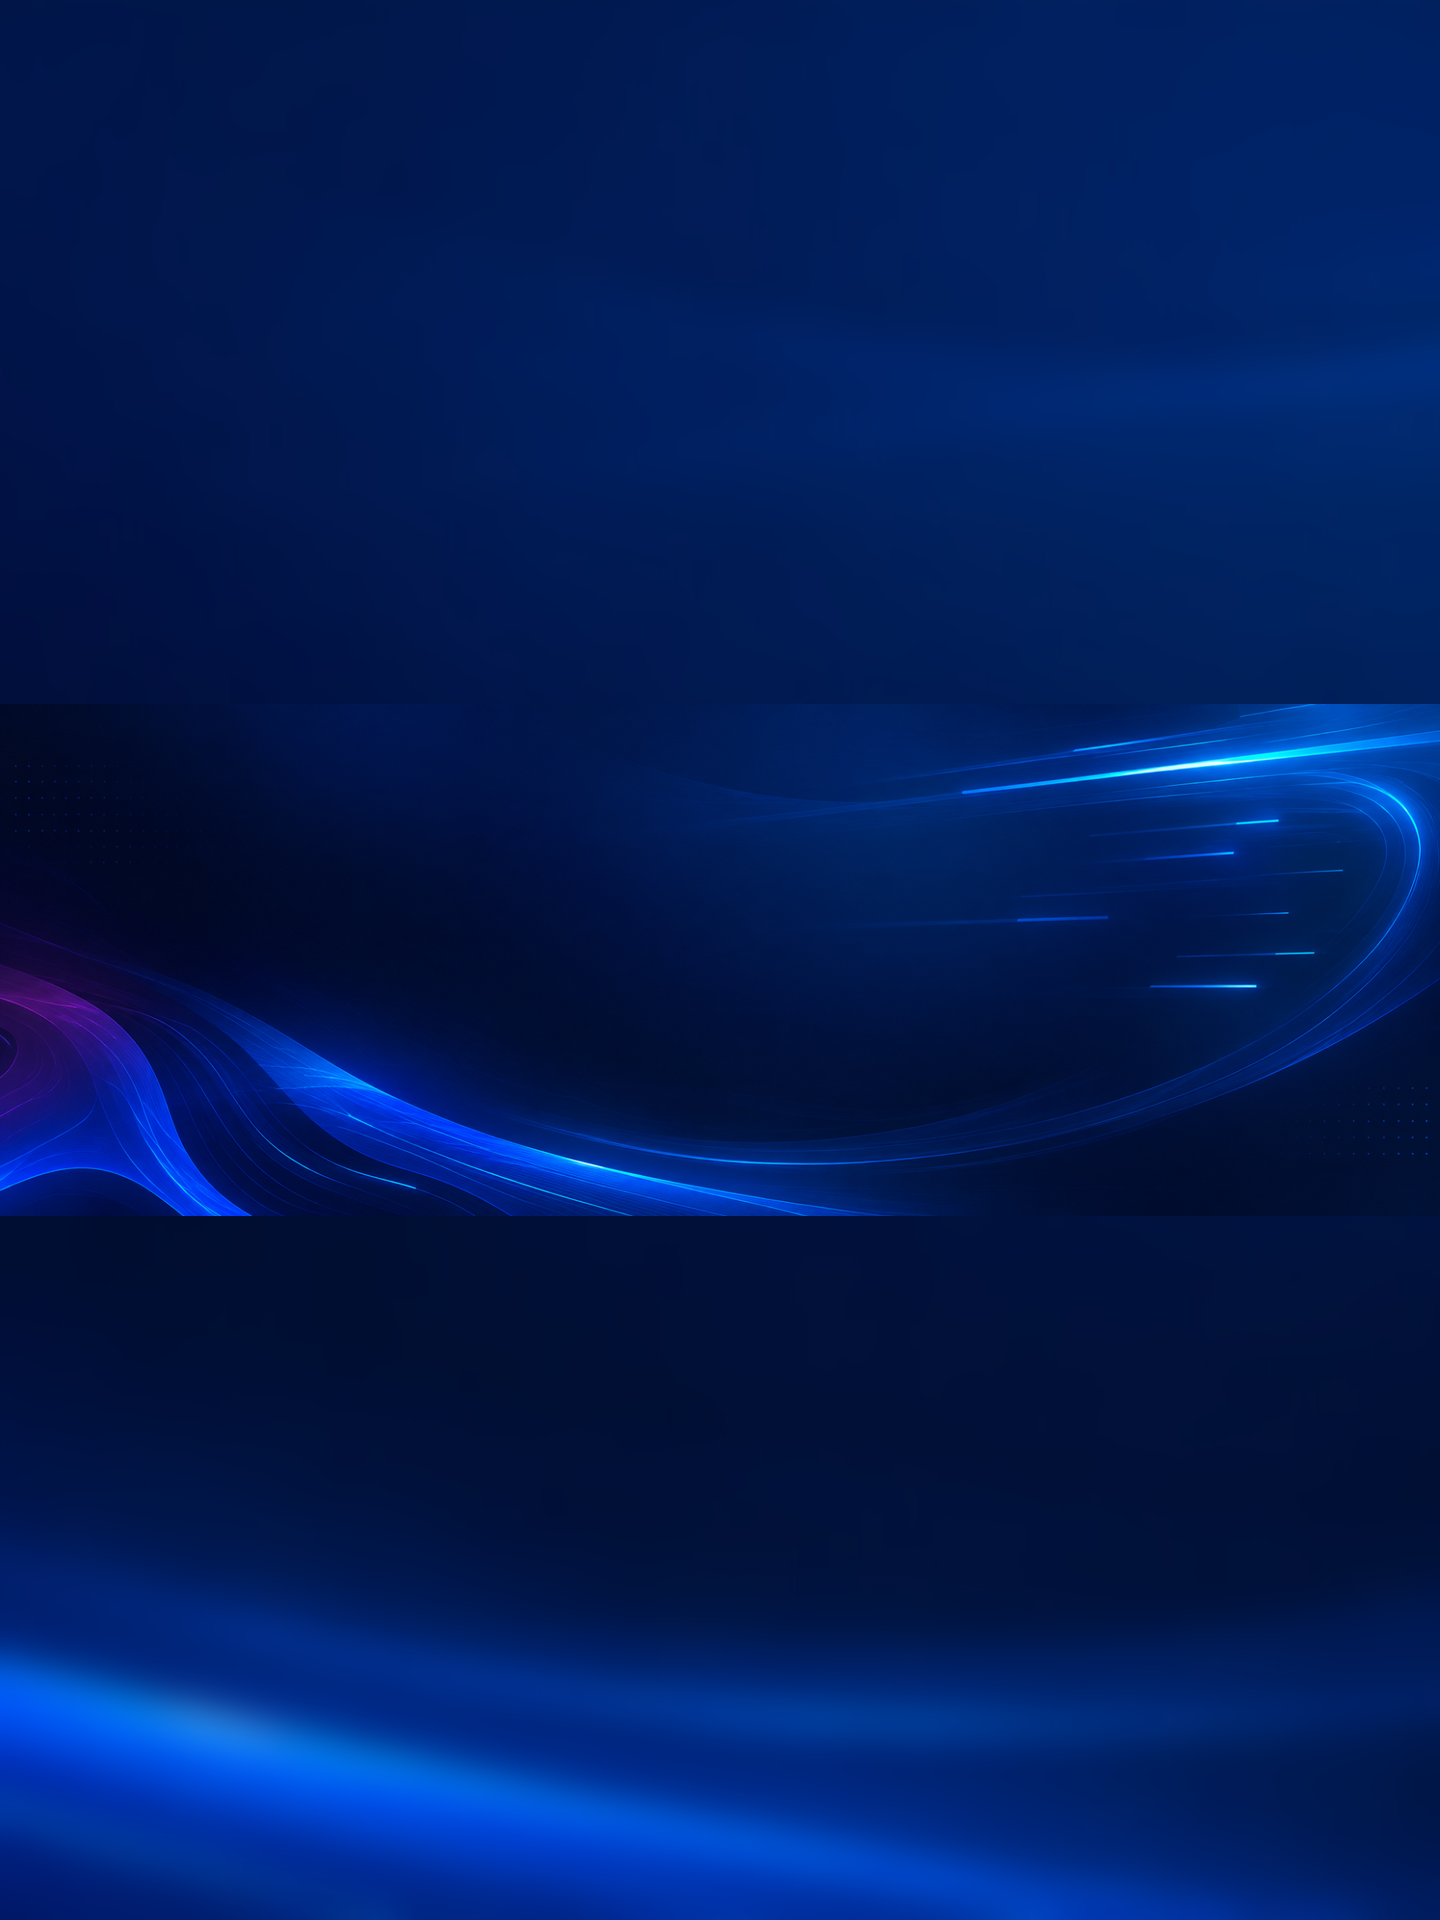
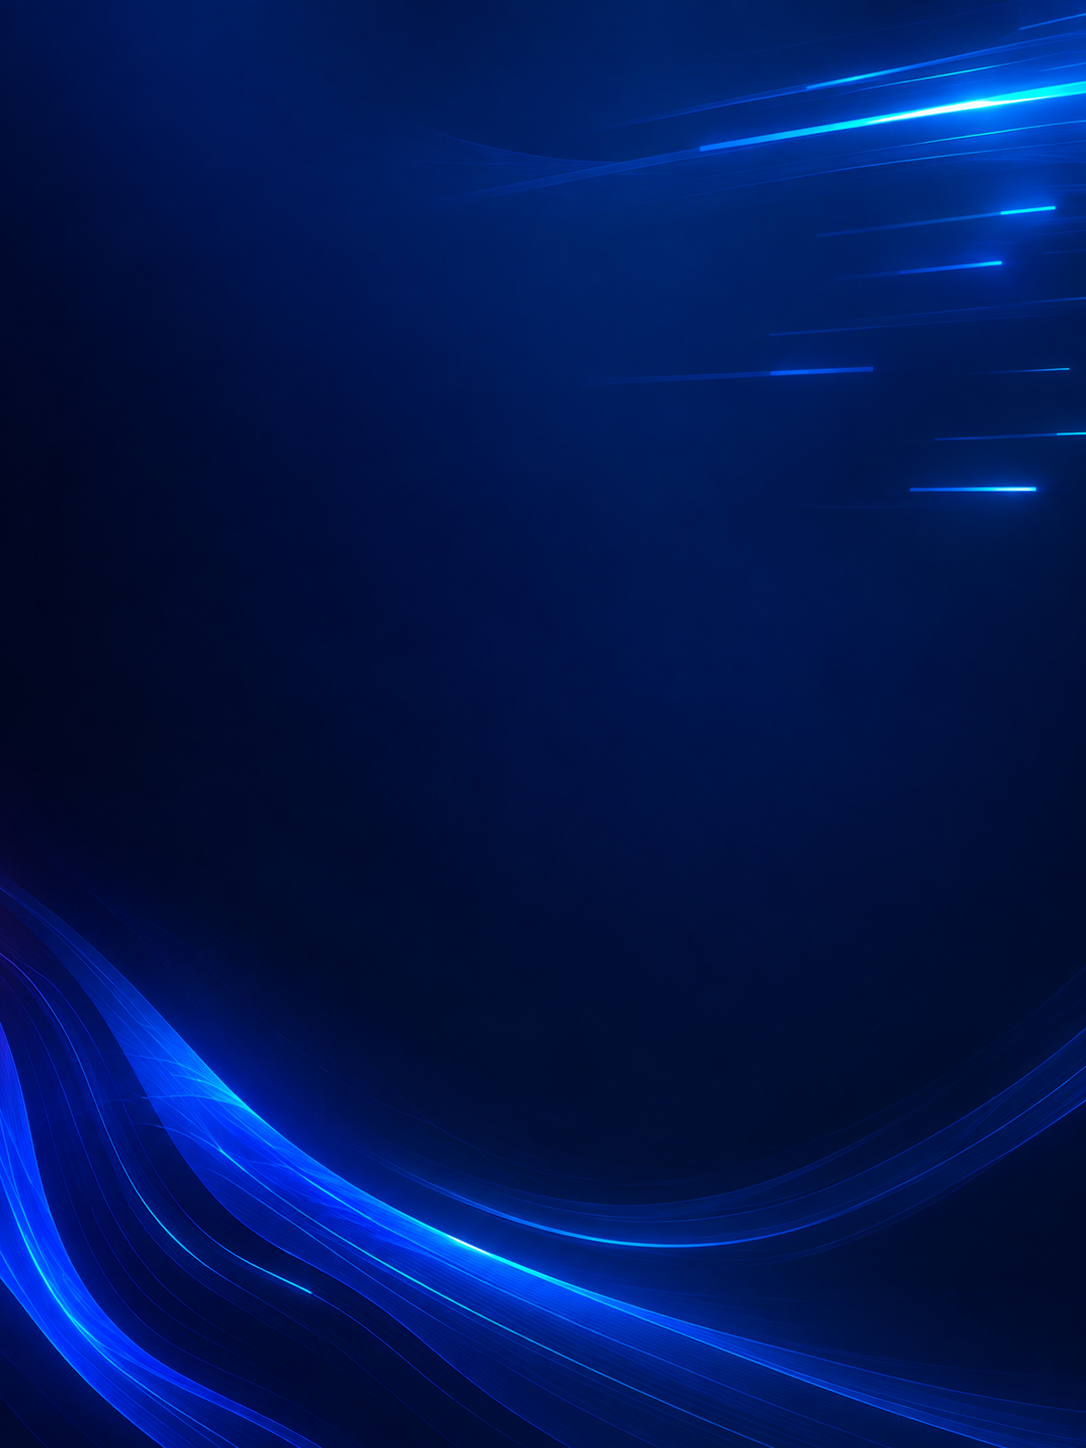
fix: improve mobile landing hero

diff --git a/frontend/src/pages/HeroResponsive.css b/frontend/src/pages/HeroResponsive.css
@@ -1,0 +1,54 @@
+@media (max-width: 640px) {
+  .velo-hero {
+    min-height: 0;
+    background-color: #020d26;
+    background-image: linear-gradient(180deg, rgba(2, 10, 31, 0.08), rgba(2, 10, 31, 0.56)), url('/landing/hero-mobile.png');
+    background-position: center top;
+    background-repeat: no-repeat;
+    background-size: 100% 100%, 100% auto;
+  }
+
+  .velo-hero-copy {
+    padding-top: 32px;
+    text-align: center;
+  }
+
+  .velo-hero h1 {
+    margin-top: 16px;
+    font-size: clamp(37px, 10.7vw, 44px);
+    line-height: 1.07;
+  }
+
+  .velo-hero-description {
+    max-width: 340px;
+    line-height: 1.52;
+  }
+
+  .velo-hero-buttons {
+    flex-direction: column;
+    align-items: stretch;
+    width: min(100%, 344px);
+    margin: 24px auto 0;
+    gap: 11px;
+  }
+
+  .velo-hero-buttons .velo-button {
+    flex: none;
+    width: 100%;
+  }
+
+  .velo-checks {
+    justify-content: center;
+    max-width: 320px;
+    margin: 24px auto 0;
+    gap: 9px 15px;
+  }
+
+  .velo-hero-mascot {
+    width: min(100%, 500px);
+    max-width: 100%;
+    margin: 30px auto 0;
+    transform: none;
+    left: auto;
+  }
+}

diff --git a/frontend/src/pages/LandingPage.tsx b/frontend/src/pages/LandingPage.tsx
@@ -4,6 +4,7 @@ import { useState } from 'react'
 import './LandingPage.css'
 import './PartnerLogos.css'
 import './HowItWorks.css'
+import './HeroResponsive.css'
 
 const features = [
   [Zap, 'Envio por API', 'Dispare e-mails via API com alta performance e confiabilidade.'],
